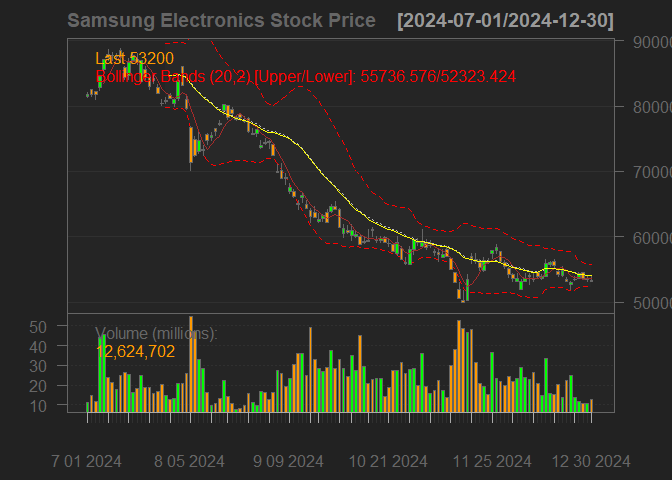
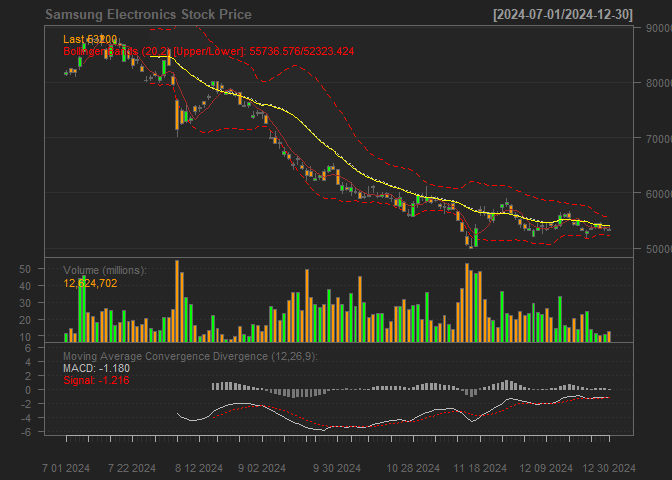
quant mod update

diff --git a/REPORT/주가-데이터-추출-및-차트그리기-R-markdown-.md b/REPORT/주가-데이터-추출-및-차트그리기-R-markdown-.md
@@ -47,12 +47,12 @@ head(AAPL)
 ```
 
     ##               open    high     low   close    volume adjusted
-    ## 2020-01-02 74.0600 75.1500 73.7975 75.0875 135480400 72.79601
-    ## 2020-01-03 74.2875 75.1450 74.1250 74.3575 146322800 72.08829
-    ## 2020-01-06 73.4475 74.9900 73.1875 74.9500 118387200 72.66271
+    ## 2020-01-02 74.0600 75.1500 73.7975 75.0875 135480400 72.79602
+    ## 2020-01-03 74.2875 75.1450 74.1250 74.3575 146322800 72.08830
+    ## 2020-01-06 73.4475 74.9900 73.1875 74.9500 118387200 72.66270
     ## 2020-01-07 74.9600 75.2250 74.3700 74.5975 108872000 72.32097
-    ## 2020-01-08 74.2900 76.1100 74.2900 75.7975 132079200 73.48437
-    ## 2020-01-09 76.8100 77.6075 76.5500 77.4075 170108400 75.04520
+    ## 2020-01-08 74.2900 76.1100 74.2900 75.7975 132079200 73.48434
+    ## 2020-01-09 76.8100 77.6075 76.5500 77.4075 170108400 75.04522
 
 <br>
 
@@ -107,10 +107,10 @@ head(`005930.KS`)
 
     ##             open  high   low close   volume adjusted
     ## 2020-01-02 55500 56000 55000 55200 12993228 48494.80
-    ## 2020-01-03 56000 56600 54900 55500 15422255 48758.37
-    ## 2020-01-06 54900 55600 54600 55500 10278951 48758.37
+    ## 2020-01-03 56000 56600 54900 55500 15422255 48758.36
+    ## 2020-01-06 54900 55600 54600 55500 10278951 48758.36
     ## 2020-01-07 55700 56400 55600 55800 10009778 49021.93
-    ## 2020-01-08 56200 57400 55900 56800 23501171 49900.46
+    ## 2020-01-08 56200 57400 55900 56800 23501171 49900.45
     ## 2020-01-09 58400 58600 57400 58600 24102579 51481.80
 
 <br>
@@ -122,7 +122,7 @@ head(`005930.KS`)
 ``` r
 chartSeries(`005930.KS`['2024-07-01::2025-01-01'], name = "Samsung Electronics Stock Price")
 addBBands()
-addSMA(5);addSMA(20, col='Yellow')
+addSMA(5);addSMA(20, col='Yellow');addMACD()
 ```
 
 ![](images/주가%20데이터%20추출%20및%20차트그리기(R%20markdown)/samsung-chart-daily-1.png)<!-- -->
@@ -178,10 +178,10 @@ samsung_df %>% head
 
     ##         date  open  high   low close   volume adjusted
     ## 1 2020-01-02 55500 56000 55000 55200 12993228 48494.80
-    ## 2 2020-01-03 56000 56600 54900 55500 15422255 48758.37
-    ## 3 2020-01-06 54900 55600 54600 55500 10278951 48758.37
+    ## 2 2020-01-03 56000 56600 54900 55500 15422255 48758.36
+    ## 3 2020-01-06 54900 55600 54600 55500 10278951 48758.36
     ## 4 2020-01-07 55700 56400 55600 55800 10009778 49021.93
-    ## 5 2020-01-08 56200 57400 55900 56800 23501171 49900.46
+    ## 5 2020-01-08 56200 57400 55900 56800 23501171 49900.45
     ## 6 2020-01-09 58400 58600 57400 58600 24102579 51481.80
 
 ``` r
